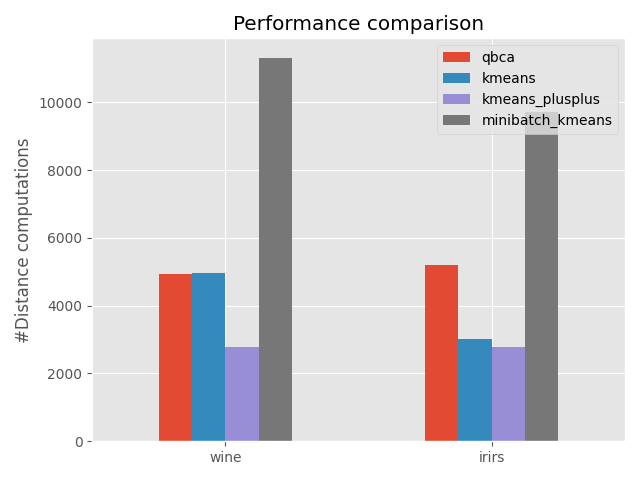
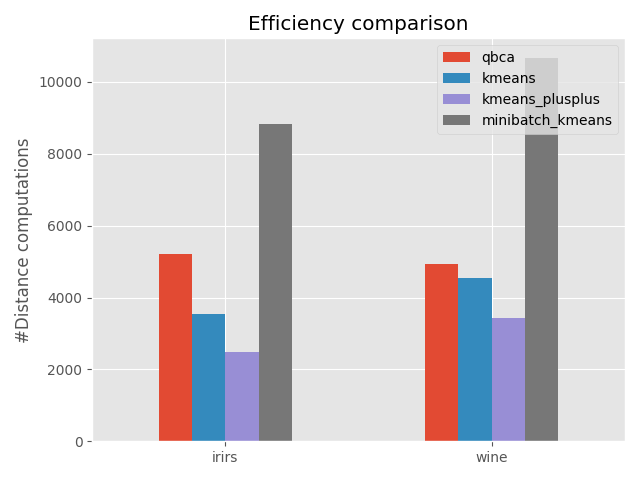
Move test scripts

diff --git a/run_tests.py b/run_tests.py
@@ -1,17 +1,18 @@
 import os
-from matplotlib import pyplot as plt
-import numpy as np
-import pandas as pd
-from sklearn.datasets import load_wine, load_iris
 
-from source.test_utils import (
+import pandas as pd
+from matplotlib import pyplot as plt
+from sklearn.datasets import load_iris, load_wine
+
+from source.utils import read_datafile
+from test_utils import (
     create_gaussian_5,
     create_gaussian_25,
-    run_test,
-    save_metrics,
     initialize_algorithms,
     load_image,
     run_segmentation,
+    run_test,
+    save_metrics,
 )
 
 plt.style.use("ggplot")
@@ -61,37 +62,43 @@ plot_out_2 = os.path.join("figures", "real-data-performance.png")
 plot_out_3 = os.path.join("figures", "image-performance.png")
 fig, ax = plt.subplots()
 
-dist_com1 = test_gaussian(
-    initialize_algorithms(5, 1e-4, 30), "gaussian_5", option=0, verbose=True
-)
+# dist_com1 = test_gaussian(
+#     initialize_algorithms(5, 1e-4, 30), "gaussian_5", option=0, verbose=True
+# )
 
-dist_com2 = test_gaussian(
-    initialize_algorithms(25, 1e-4, 30), "gaussian_25", option=1, verbose=True
-)
+# dist_com2 = test_gaussian(
+#     initialize_algorithms(25, 1e-4, 30), "gaussian_25", option=1, verbose=True
+# )
 
-dist_com3 = test_wine(initialize_algorithms(3, 1e-4, 30), "wine", verbose=True)
+# dist_com3 = test_wine(initialize_algorithms(3, 1e-4, 30), "wine", verbose=True)
 
-dist_com4 = test_iris(initialize_algorithms(3, 1e-4, 30), "iris", verbose=True)
+# dist_com4 = test_iris(initialize_algorithms(3, 1e-4, 30), "iris", verbose=True)
 
 dist_com5 = test_image(initialize_algorithms(5, 1e-2, 50), "butterfly")
 
 df = pd.concat([dist_com1, dist_com2], axis=1)
 df.columns = ["Gaussian(5)", "Gaussian(25)"]
-ax = df.T.plot.bar(rot=0, title="Performance comparison", ylabel="#Distance computations")
+ax = df.T.plot.bar(
+    rot=0, title="Efficiency comparison", ylabel="#Distance computations"
+)
 
 plt.tight_layout()
 plt.savefig(plot_out_1)
 plt.clf()
 
-df = pd.concat([dist_com3, dist_com4], axis=1)
-df.columns = ["wine", "irirs"]
-ax = df.T.plot.bar(rot=0, title="Performance comparison", ylabel="#Distance computations")
+df = pd.concat([dist_com4, dist_com3], axis=1)
+df.columns = ["irirs", "wine"]
+ax = df.T.plot.bar(
+    rot=0, title="Efficiency comparison", ylabel="#Distance computations"
+)
 
 plt.tight_layout()
 plt.savefig(plot_out_2)
 plt.clf()
 
-ax = dist_com5.plot.bar(rot=0, title="Performance comparison", ylabel="#Distance computations")
+ax = dist_com5.plot.bar(
+    rot=0, title="Efficiency comparison", ylabel="#Distance computations"
+)
 
 plt.tight_layout()
 plt.savefig(plot_out_3)

diff --git a/source/qbca.py b/source/qbca.py
@@ -133,11 +133,18 @@ class QBCA:
                 closest_seed = np.argmin(distances, axis=1)
                 for j, cs in enumerate(closest_seed):
                     self.seed_points[candidates_idx[cs]].append(points[j])
-                    self.seed_point_indices[candidates_idx[cs]].append(self.bins[idx][j])
+                    self.seed_point_indices[candidates_idx[cs]].append(
+                        self.bins[idx][j]
+                    )
             else:
-                self.seed_points[candidates_idx[0]] = [*self.seed_points[candidates_idx[0]],*points]
-                self.seed_point_indices[candidates_idx[0]] = [*self.seed_point_indices[candidates_idx[0]], *self.bins[idx]]
-
+                self.seed_points[candidates_idx[0]] = [
+                    *self.seed_points[candidates_idx[0]],
+                    *points,
+                ]
+                self.seed_point_indices[candidates_idx[0]] = [
+                    *self.seed_point_indices[candidates_idx[0]],
+                    *self.bins[idx],
+                ]
 
     def _compute_min_max_distances(self, max_coords, min_coords):
         max_distances = self._compute_max_distances(max_coords, min_coords)
@@ -158,7 +165,6 @@ class QBCA:
             )
         self.n_dist_ += max_distances.size
         return max_distances
-    
 
     def _compute_min_distances(self, max_coords, min_coords):
         min_distances = np.zeros((len(max_coords), len(self.seeds)))
@@ -176,7 +182,6 @@ class QBCA:
 
         self.n_dist_ += min_distances.size
         return min_distances
-
 
     def _get_non_empty_bins(self):
         """

diff --git a/test_utils.py b/test_utils.py
@@ -50,11 +50,11 @@ def load_image(filename, height=150):
     image = cv2.imread(os.path.join(data_dir, filename + ".jpg"))
     image = cv2.cvtColor(image, cv2.COLOR_BGR2Lab)
     if height:
-        y, x, z = image.shape
+        y, x, _ = image.shape
         ratio = height / float(y)
         dim = (int(x * ratio), height)
         image = cv2.resize(image, dim, interpolation=cv2.INTER_CUBIC)
-    image = cv2.GaussianBlur(image, (5,5), 0.5)
+    image = cv2.GaussianBlur(image, (5, 5), 0.5)
     pixel_values = image.reshape((-1, 3))
     return np.float32(pixel_values), image
 
@@ -115,8 +115,10 @@ def save_metrics(out_file, metrics):
         hrules=True,
     )
 
-    if ((external_metrics in list(metrics.columns))):
-        s = metrics[external_metrics].style.highlight_max(props="textbf: --rwrap", axis=0)
+    if external_metrics in list(metrics.columns):
+        s = metrics[external_metrics].style.highlight_max(
+            props="textbf: --rwrap", axis=0
+        )
         s.format("{:.4f}")
         s.to_latex(
             f"{tex_out}_external_metrics.tex",

diff --git a/source/utils.py b/source/utils.py
@@ -3,15 +3,21 @@ import os.path
 import numpy as np
 import pandas as pd
 from scipy.spatial.distance import cdist
+from sklearn.decomposition import PCA
 
 
-def read_datafile(filename, has_class=True):
-    filepath = os.path.join("..", "data", filename)
+def read_datafile(filepath, n_dims=-1, has_class=True):
     df = pd.read_csv(filepath)
     if has_class:
-        return df.iloc[:, :-1].to_numpy(copy=True), df.iloc[:, -1].to_numpy(copy=True)
+        x, y = df.iloc[:, :-1].to_numpy(copy=True), df.iloc[:, -1].to_numpy(copy=True)
+    else:
+        x, y = df.to_numpy(copy=True), None
 
-    return df.to_numpy(copy=True), None
+    if 0 < n_dims < x.shape[1]:
+        pca = PCA(n_components=n_dims)
+        x = pca.fit_transform(x)
+
+    return x, y
 
 
 def clusters_dissimilarity(c1, c2):

diff --git a/results/butterfly_performance.tex b/results/butterfly_performance.tex
@@ -4,10 +4,10 @@
 \toprule
  & Training time & #Distance computations \\
 \midrule
-qbca & 1.7983 & 236143.0000 \\
-kmeans & \textbf{0.0083} & 265500.0000 \\
-kmeans_plusplus & 0.0116 & 132750.0000 \\
-minibatch_kmeans & 0.0310 & \textbf{26550.0000} \\
+qbca & 1.9853 & 236143.0000 \\
+kmeans & \textbf{0.0069} & 159300.0000 \\
+kmeans_plusplus & 0.0113 & 106200.0000 \\
+minibatch_kmeans & 0.0953 & \textbf{79650.0000} \\
 \bottomrule
 \end{tabular}
 \end{table}

diff --git a/results/gaussian_5_performance.tex b/results/gaussian_5_performance.tex
@@ -4,10 +4,10 @@
 \toprule
  & Training time & #Distance computations \\
 \midrule
-qbca & 0.2162 & \textbf{8060.0000} \\
-kmeans & 0.0074 & 145000.0000 \\
-kmeans_plusplus & \textbf{0.0039} & 100000.0000 \\
-minibatch_kmeans & 0.0392 & 165000.0000 \\
+qbca & 0.2195 & \textbf{8060.0000} \\
+kmeans & 0.0073 & 130000.0000 \\
+kmeans_plusplus & \textbf{0.0038} & 100000.0000 \\
+minibatch_kmeans & 0.0376 & 150000.0000 \\
 \bottomrule
 \end{tabular}
 \end{table}

diff --git a/results/wine_performance.tex b/results/wine_performance.tex
@@ -4,10 +4,10 @@
 \toprule
  & Training time & #Distance computations \\
 \midrule
-qbca & 19.4729 & 4928.0000 \\
-kmeans & \textbf{0.0019} & 4966.2000 \\
-kmeans_plusplus & 0.0020 & \textbf{2776.8000} \\
-minibatch_kmeans & 0.0264 & 11320.8000 \\
+qbca & 19.5534 & 4928.0000 \\
+kmeans & \textbf{0.0020} & 4539.0000 \\
+kmeans_plusplus & 0.0021 & \textbf{3417.6000} \\
+minibatch_kmeans & 0.0251 & 10680.0000 \\
 \bottomrule
 \end{tabular}
 \end{table}

diff --git a/results/iris_performance.tex b/results/iris_performance.tex
@@ -4,10 +4,10 @@
 \toprule
  & Training time & #Distance computations \\
 \midrule
-qbca & 0.0790 & 5213.0000 \\
-kmeans & \textbf{0.0018} & 3015.0000 \\
-kmeans_plusplus & 0.0020 & \textbf{2790.0000} \\
-minibatch_kmeans & 0.0274 & 9720.0000 \\
+qbca & 0.0973 & 5213.0000 \\
+kmeans & \textbf{0.0020} & 3555.0000 \\
+kmeans_plusplus & 0.0023 & \textbf{2475.0000} \\
+minibatch_kmeans & 0.0274 & 8820.0000 \\
 \bottomrule
 \end{tabular}
 \end{table}

diff --git a/results/gaussian_25_internal_metrics.tex b/results/gaussian_25_internal_metrics.tex
@@ -5,9 +5,9 @@
  & Calinski-Harabasz Index & Dunn Index \\
 \midrule
 qbca & 889282.0314 & 0.0002 \\
-kmeans & 39717.5530 & 0.0001 \\
-kmeans_plusplus & \textbf{37606397.0128} & \textbf{2.6709} \\
-minibatch_kmeans & 37606397.0128 & \textbf{2.6709} \\
+kmeans & 40556.7157 & 0.0002 \\
+kmeans_plusplus & 37606397.0128 & \textbf{2.6709} \\
+minibatch_kmeans & \textbf{37606397.0128} & \textbf{2.6709} \\
 \bottomrule
 \end{tabular}
 \end{table}

diff --git a/results/gaussian_25_performance.tex b/results/gaussian_25_performance.tex
@@ -4,10 +4,10 @@
 \toprule
  & Training time & #Distance computations \\
 \midrule
-qbca & 0.2866 & \textbf{32130.0000} \\
-kmeans & \textbf{0.0030} & 875000.0000 \\
+qbca & 0.3075 & \textbf{32130.0000} \\
+kmeans & \textbf{0.0030} & 900000.0000 \\
 kmeans_plusplus & 0.0098 & 500000.0000 \\
-minibatch_kmeans & 0.0445 & 775000.0000 \\
+minibatch_kmeans & 0.0422 & 775000.0000 \\
 \bottomrule
 \end{tabular}
 \end{table}

diff --git a/results/butterfly_internal_metrics.tex b/results/butterfly_internal_metrics.tex
@@ -5,9 +5,9 @@
  & Calinski-Harabasz Index & Dunn Index \\
 \midrule
 qbca & \textbf{36104.6279} & 0.0076 \\
-kmeans & 31762.4189 & 0.0084 \\
-kmeans_plusplus & 35895.2570 & 0.0075 \\
-minibatch_kmeans & 29566.8107 & \textbf{0.0089} \\
+kmeans & 32562.1782 & \textbf{0.0082} \\
+kmeans_plusplus & 32971.2950 & \textbf{0.0082} \\
+minibatch_kmeans & 35921.5694 & 0.0078 \\
 \bottomrule
 \end{tabular}
 \end{table}

diff --git a/results/wine_internal_metrics.tex b/results/wine_internal_metrics.tex
@@ -5,9 +5,9 @@
  & Calinski-Harabasz Index & Dunn Index \\
 \midrule
 qbca & \textbf{561.8157} & 0.0163 \\
-kmeans & 536.5407 & 0.0142 \\
-kmeans_plusplus & 556.2101 & 0.0167 \\
-minibatch_kmeans & 553.6274 & \textbf{0.0173} \\
+kmeans & 549.5297 & 0.0150 \\
+kmeans_plusplus & 536.7689 & 0.0163 \\
+minibatch_kmeans & 527.9750 & \textbf{0.0241} \\
 \bottomrule
 \end{tabular}
 \end{table}
